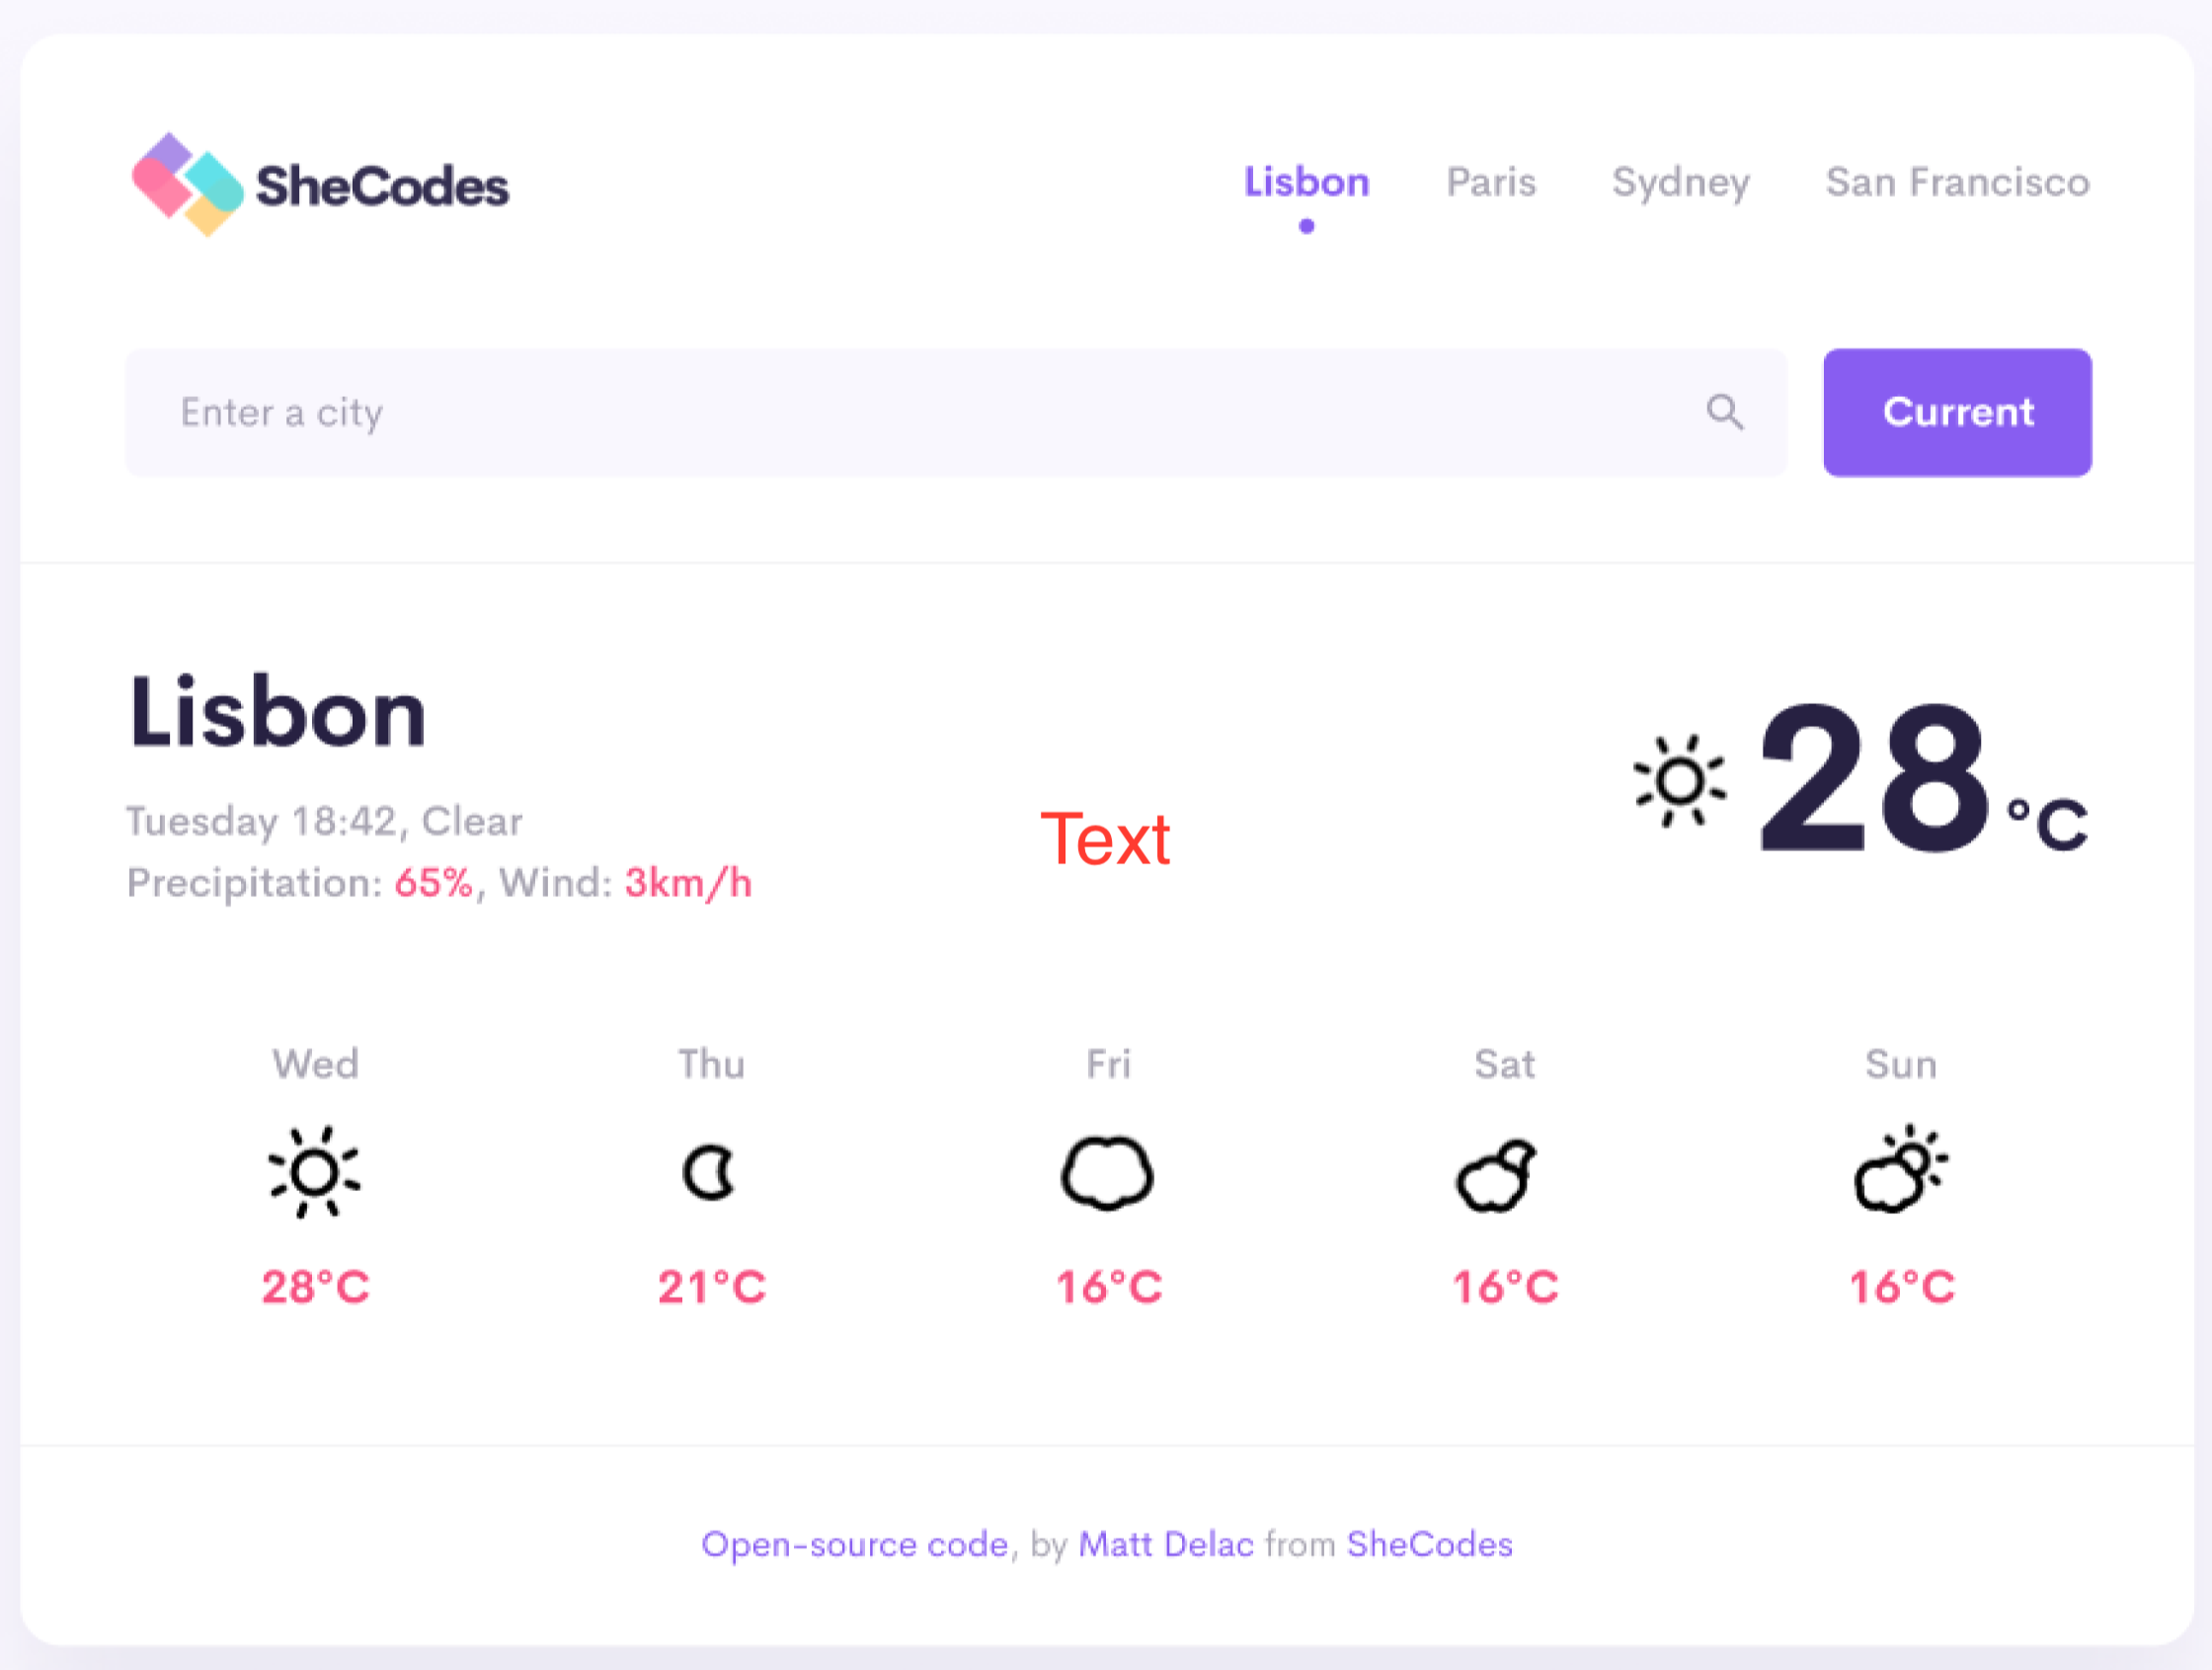
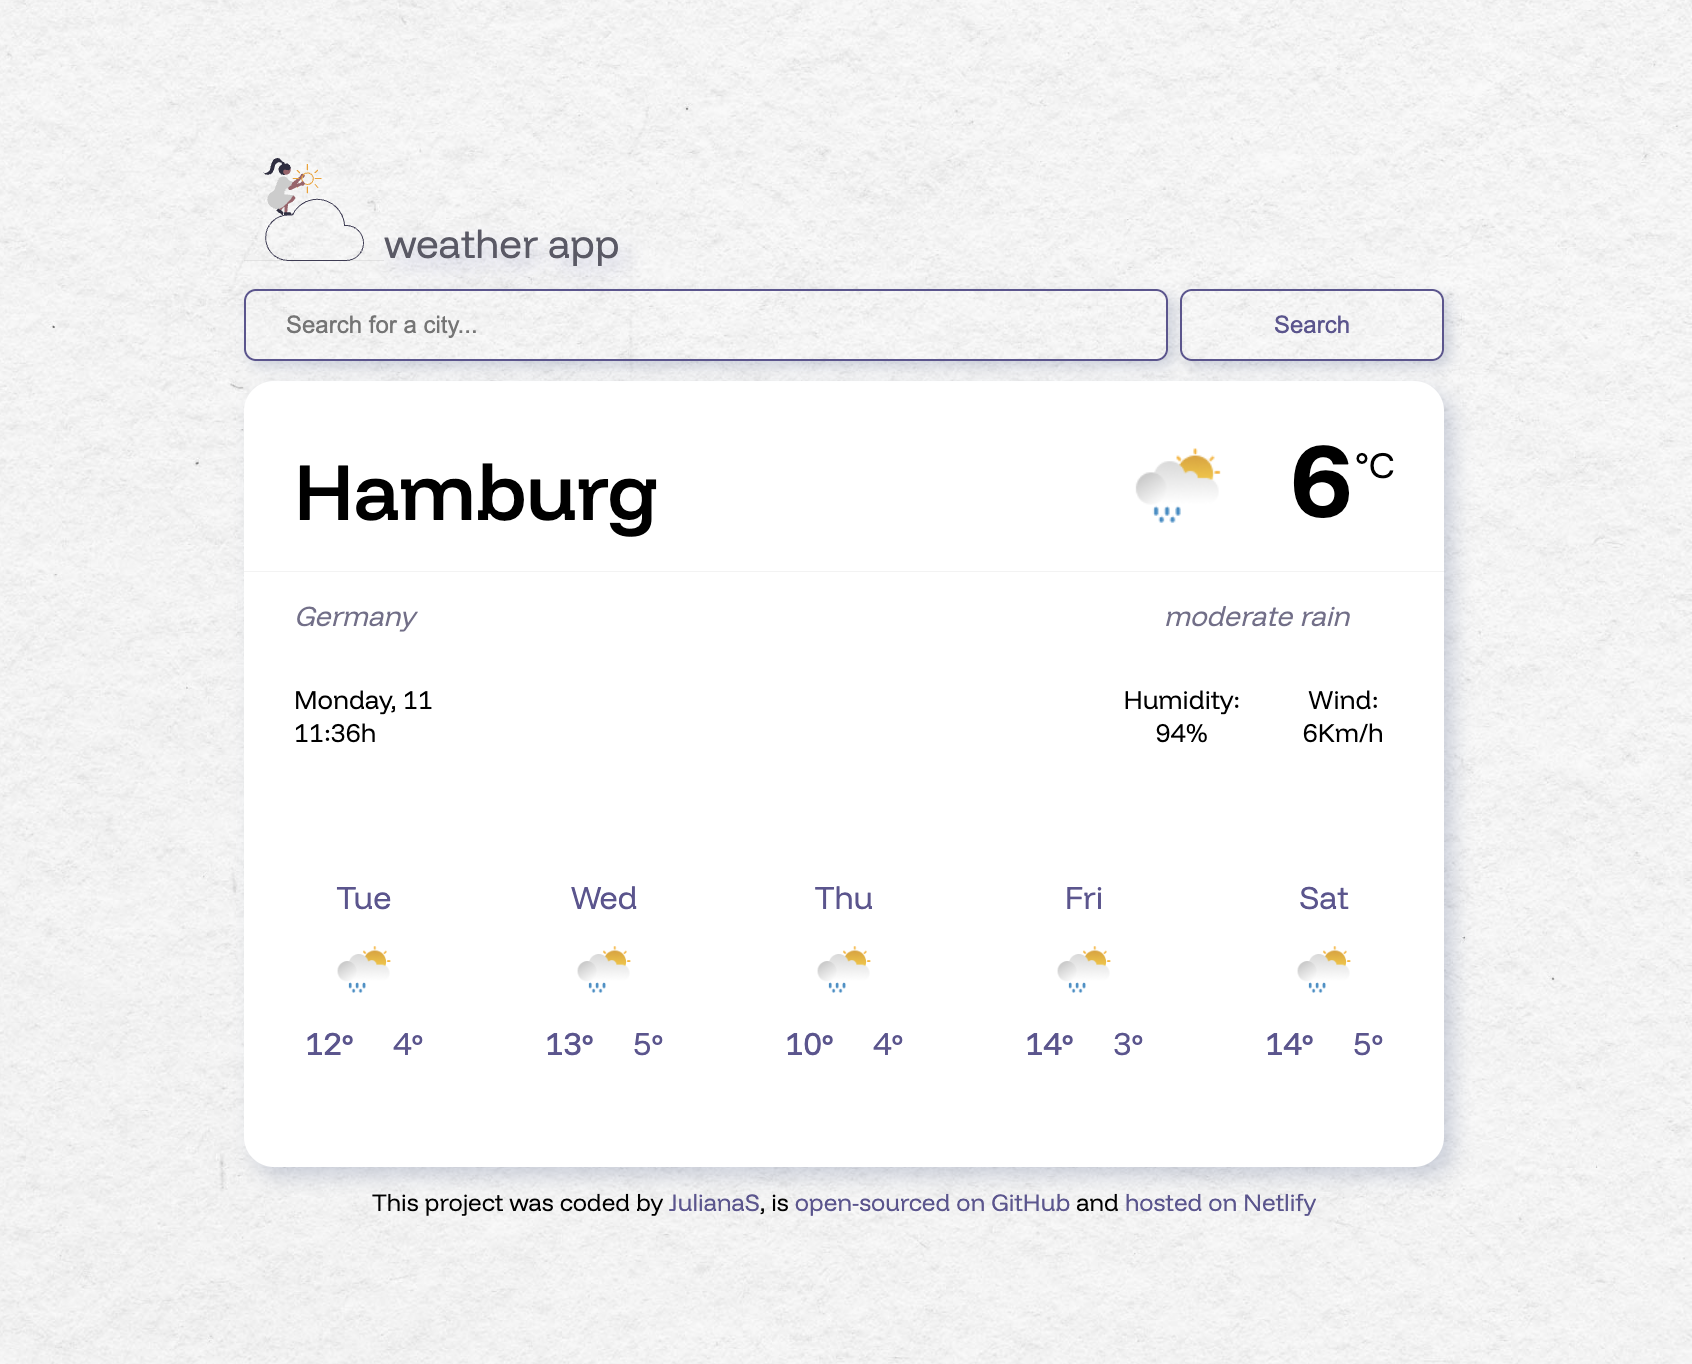
added generally classes and updated projects page

diff --git a/projects.html b/projects.html
@@ -73,81 +73,39 @@
       </div>
     </nav>
   </div>
-  <div class="container">
-    <h1 class="text-center mt-5">Projects</h1>
-    <div class="row mt-5">
-      <div class="col-md-6 bg-column rounded">
-        <img src="src/yoga.png" class="img-fluid rounded d-none d-lg-block" />
-      </div>
-      <div class="col-md-6 rounded">
-        <h2>Yoga app</h2>
-        <h3 class="judson-regular text-limit">
-          Lorem ipsum dolor sit amet consectetur adipisicing elit. Perferendis
-          quia, dignissimos nam ratione veniam quibusdam porro omnis quam vel
-          eos eveniet alias temporibus deserunt veritatis minima fugiat
-          explicabo eum dolore.
-        </h3>
-        <button
-          type="button"
-          class="btn btn-primary mt-4 btn-custom d-block mx-auto mx-md-0"
-        >
-          Launch Yoga app2
-        </button>
-      </div>
-      <div>
-        <br />
-      </div>
-      <div
-        class="col-md-6 d-flex flex-column align-items-center align-items-md-end"
-      >
-        <h2 class="text-limit text-center text-md-end">Weather app</h2>
+  <div class="content-container container">
+    <div class="content">
+      <div class="content">
+        <h1 class="mb-3 text-center">
+          Take a look at what I've been working on!
+        </h1>
 
-        <h3 class="judson-regular text-limit text-center text-md-end">
-          Lorem ipsum dolor sit amet consectetur adipisicing elit. Perferendis
-          quia, dignissimos nam ratione veniam quibusdam porro omnis quam vel
-          eos eveniet alias temporibus deserunt veritatis minima fugiat
-          explicabo eum dolore.
-        </h3>
-        <button
-          type="button"
-          class="btn btn-primary mt-4 btn-custom d-block mx-auto mx-md-0"
-        >
-          Launch Weather app
-        </button>
-      </div>
-      <div class="col-md-6 bg-column rounded">
-        <img
-          src="src/weather.png"
-          class="img-fluid rounded d-none d-lg-block"
-        />
-      </div>
+        <div class="row">
+          <div class="col-md-6 mb-4">
+            <img src="src/weather.png" class="img-fluid rounded" alt="" />
+            <h2 class="text-center">Weather Project</h2>
+            <p class="text-center">built with HTML, CSS, and JavaScript</p>
+          </div>
 
-      <div>
-        <br />
-      </div>
+          <div class="col-md-6 mb-4">
+            <img src="src/pottery.png" class="img-fluid rounded" alt="" />
+            <h2 class="text-center">Pottery Project</h2>
+            <p class="text-center">built with HTML, CSS, and JavaScript</p>
+          </div>
 
-      <div
-        class="col-md-6 d-flex flex-column align-items-center align-items-md-start"
-      >
-        <img src="src/yogurt.png" class="img-fluid rounded d-none d-lg-block" />
-      </div>
-      <div class="col-md-6">
-        <h2>Yoghurt app</h2>
-        <h3 class="judson-regular text-limit">
-          Lorem ipsum dolor sit amet consectetur adipisicing elit. Perferendis
-          quia, dignissimos nam ratione veniam quibusdam porro omnis quam vel
-          eos eveniet alias temporibus deserunt veritatis minima fugiat
-          explicabo eum dolore.
-        </h3>
-        <button
-          type="button"
-          class="btn btn-primary mt-4 btn-custom d-block mx-auto mx-md-0"
-        >
-          Launch Yoghurt app
-        </button>
+          <div class="col-md-6 mb-4">
+            <img src="src/clock.png" class="img-fluid rounded" alt="" />
+            <h2 class="text-center">Word Clock Project</h2>
+            <p class="text-center">built with HTML, CSS, and JavaScript</p>
+          </div>
+
+          <div class="col-md-6 mb-4">
+            <img src="src/poem.png" class="img-fluid rounded" alt="" />
+            <h2 class="text-center">Poem Project</h2>
+            <p class="text-center">built with HTML, CSS, and JavaScript</p>
+          </div>
+        </div>
       </div>
     </div>
   </div>
-  <br />
-  <br />
 </body>

diff --git a/style.css b/style.css
@@ -118,21 +118,20 @@ body {
   .btn {
     font-size: 14px;
   }
-  .about-me-section {
+  .content-container {
     text-align: center;
     padding: 0;
   }
 }
-.about-me-section {
+.content-container {
   padding: 150px 40px;
 }
-.about-me-text {
-  max-width: 600px;
+.content {
   line-height: 1.6;
   margin: 40px;
 }
 
-.about-me-section h1 {
+.content h1 {
   font-family: "Playfair Display", serif;
   font-optical-sizing: auto;
   font-weight: 400;
@@ -140,19 +139,28 @@ body {
   font-size: 46px;
   color: var(--title-color);
 }
-.about-me-section h2 {
+.content h2 {
   font-family: "Quicksand", sans-serif;
   font-optical-sizing: auto;
   font-weight: 400;
   font-style: normal;
-  font-size: 18px;
+  font-size: 22px;
   color: var(--subtitle-color);
+  margin: 20px 0 0 0;
 }
-.about-me-section h4 {
+.content h4 {
   font-family: "Judson", serif;
   font-weight: 400;
   font-style: normal;
   color: var(--subtitle-color);
   font-size: 20px;
   line-height: 1.6;
+}
+.content p {
+  font-family: "Judson", serif;
+  font-weight: 400;
+  font-style: normal;
+  color: var(--subtitle-color);
+  font-size: 16px;
+  margin-top: 0;
 }

diff --git a/aboutme.html b/aboutme.html
@@ -73,10 +73,10 @@
       </div>
     </nav>
   </div>
-  <div class="container about-me-section">
+  <div class="content-container container">
     <div class="row">
       <div class="col-lg-6">
-        <div class="about-me-text">
+        <div class="content">
           <h1 class="mb-3">Hi, I am Juliana</h1>
           <h2 class="mb-3">
             Brazilian front-end developer currently based in Germany.